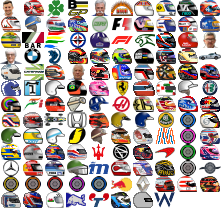
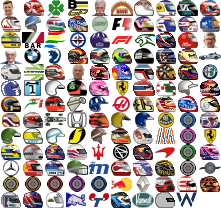
Updated flairs

Changed region(s): [[0.8959, 0.2885, 1.0, 0.6923], [0.5973, 0.9231, 0.8959, 1.0]]

diff --git a/src/styles/modules/_flairs.scss b/src/styles/modules/_flairs.scss
@@ -11,7 +11,7 @@
 }
 
 .flair-aaa-default:before {
-  background-position: -132px -192px;
+  background-position: -154px -192px;
 }
 .flair-alain-prost:before {
   background-position: -155px -16px;
@@ -346,19 +346,19 @@
 .flair-safety-car:before {
   background-position: -199px -48px;
 }
-.flair-santino-ferrucci:before {
+.flair-sauber:before {
   background-position: -199px -64px;
 }
-.flair-sauber:before {
+.flair-sebastian-buemi:before {
   background-position: -199px -80px;
 }
-.flair-sebastian-buemi:before {
+.flair-sebastian-vettel:before {
   background-position: -199px -96px;
 }
-.flair-sebastian-vettel:before {
+.flair-sergey-sirotkin:before {
   background-position: -199px -112px;
 }
-.flair-sergey-sirotkin:before {
+.flair-sergio-marchionne:before {
   background-position: -199px -128px;
 }
 .flair-sergio-perez:before {
@@ -388,9 +388,12 @@
 .flair-valtteri-bottas:before {
   background-position: -110px -192px;
 }
+.flair-vanwall:before {
+  background-position: -132px -192px;
+}
 .flair-will-buxton:before {
   background-position: 0px 0px;
 }
 .flair-williams:before {
-  background-position: -154px -192px;
+  background-position: -176px -192px;
 }

diff --git a/src/styles/stylesheet.css b/src/styles/stylesheet.css
@@ -638,7 +638,7 @@ div.content {
   margin-top      : 2px;
   text-align      : center;
   text-decoration : none;
-  text-transform  : None;
+  text-transform  : none;
 }
 
 .listing-page .titlebox .md > ul:nth-of-type(3) > li:first-of-type:after,
